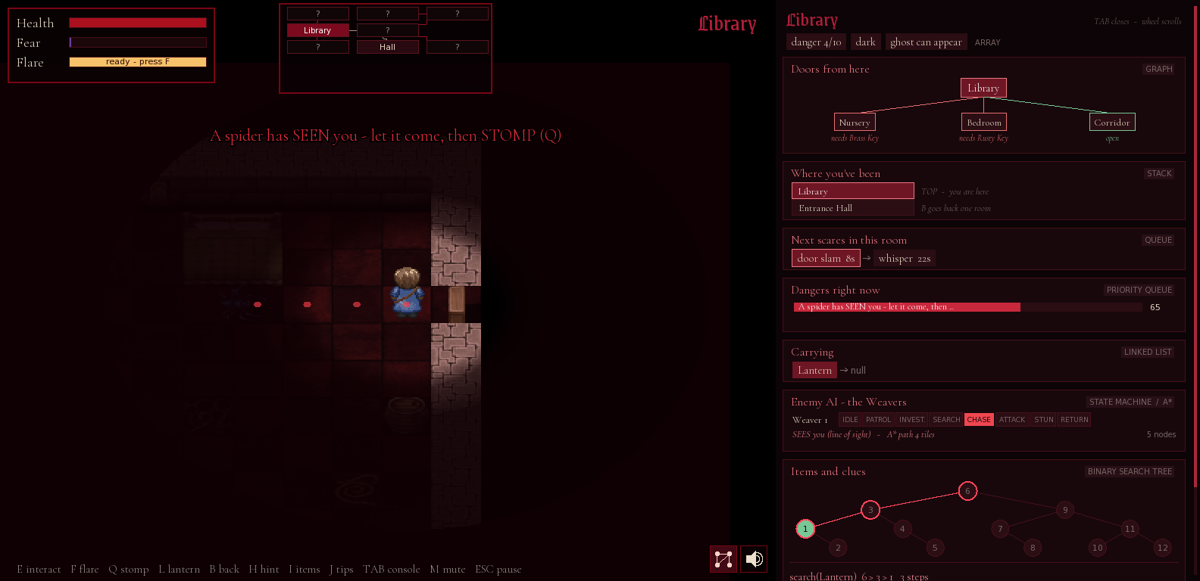
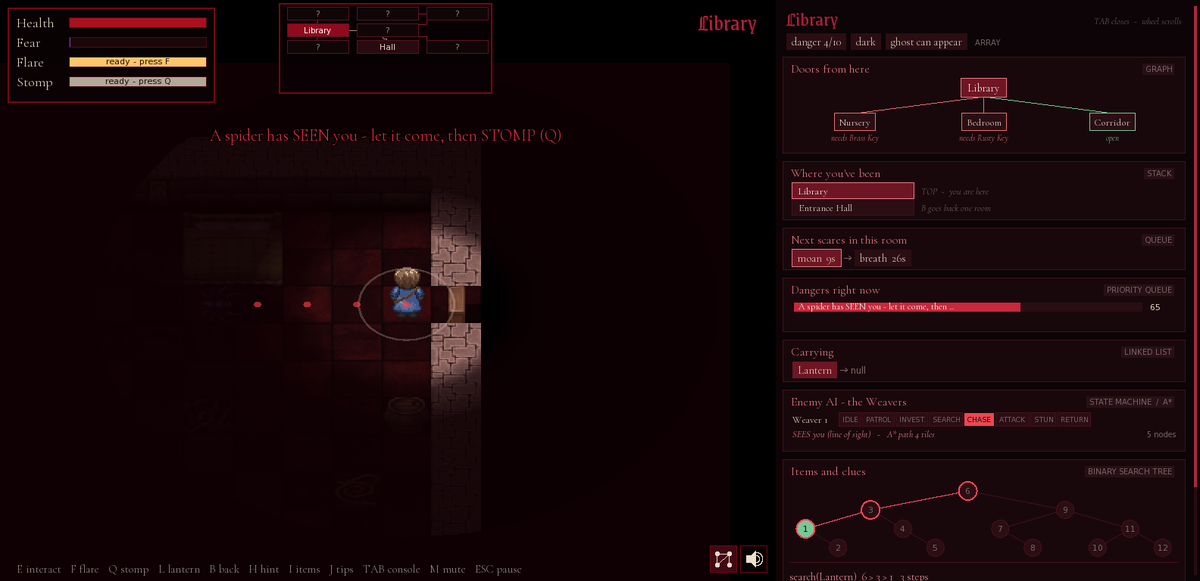
Retake README screenshots, add door/stomp/notes/hiding shots, stomp cooldown 12 s

Changed region(s): [[0.0, 0.1239, 0.185, 0.1859], [0.6783, 0.4337, 0.7708, 0.4647], [0.3083, 0.5577, 0.3392, 0.5886]]

diff --git a/src/hud.cpp b/src/hud.cpp
@@ -764,7 +764,7 @@ void Game::drawConsole(sf::RenderWindow* w) {
 			txt(b, fontSerif, 13, BONE, 22, y0 + 2);
 			float x = 84;
 			for (int k = 0; k < 8; ++k) {                       // the 8-state machine, current state lit
-				bool on = (int)s.state == k;
+				bool on = s.active && (int)s.state == k;   // a squashed spider has no state left
 				float cw = width(names[k], fontMono, 9) + 8;
 				rect(x, y0 + 2, cw, 17, on ? stateCol[k] : CHIP, on ? sf::Color::Transparent : EDGE);
 				txt(names[k], fontMono, 9, on ? sf::Color(20, 6, 8) : TAG, x + 4, y0 + 5);

diff --git a/src/game.h b/src/game.h
@@ -181,7 +181,7 @@ private:
 	bool placeWallWriting(const Str& word);
 	float shake = 0, jumpscare = 0, flare = 0, flareCooldown = 0, hurtFlash = 0;
 	static constexpr float FLARE_COOLDOWN = 10.f;   // seconds between lantern flares
-	static constexpr float STOMP_COOLDOWN = 15.f;   // seconds before you can stomp again
+	static constexpr float STOMP_COOLDOWN = 12.f;   // seconds before you can stomp again
 	static constexpr float STOMP_REACH = 30.f;      // px from your feet - about one tile
 	// digging (crypt)
 	int digCount = 0; float digT = 0;

diff --git a/README.md b/README.md
@@ -21,7 +21,7 @@ spirits, the Weavers and the Devil. Then choose how the nightmare ends.
 
 - **Ten rooms** joined in a **graph**, with locked doors, a hidden passage found by **DFS**, and a **BFS** hint route plus a trail of blood to your goal.
 - **Enemy AI** with an **eight-state machine**, **line of sight**, **sound detection**, and **A\*** and **BFS** pathfinding.
-- **Stealth**: turn your lantern off, stand still, or hide in a wardrobe. Or **stomp** a spider flat when it rears up at your feet (short reach, 15 s cooldown).
+- **Stealth**: turn your lantern off, stand still, or hide in a wardrobe. Or **stomp** a spider flat when it rears up at your feet (short reach, 12 s cooldown).
 - **Doors you walk through**: a door swings open on its hinge, the hero walks through, and it shuts behind you with a thud. Locked doors rattle.
 - **A boss fight**: the hero draws the Blessed Sword (animated swing in four directions) and needs six blows to end the Devil.
 - **Save & continue**, health kits hidden in drawers, and rolling **credits** over TV static.
@@ -58,7 +58,9 @@ spirits, the Weavers and the Devil. Then choose how the nightmare ends.
 | | |
 |---|---|
 | <img src="docs/images/bfs_hint.png" alt="BFS hint"><br><sub>Stuck for 30 s? The hint names the goal and the <b>BFS</b> route to it.</sub> | <img src="docs/images/samara.png" alt="Samara"><br><sub>Samara hunts by sound. Stand still and she loses your trail.</sub> |
-| <img src="docs/images/bedroom.png" alt="Collapsed Bedroom"><br><sub>The Collapsed Bedroom: pits, fire, spikes and a lever.</sub> | <img src="docs/images/crypt.png" alt="The Crimson Crypt"><br><sub>The Crimson Crypt. The EMF meter screams when the Devil is close.</sub> |
+| <img src="docs/images/bedroom.png" alt="Collapsed Bedroom"><br><sub>The Collapsed Bedroom: pits, fire, spikes and a lever.</sub> | <img src="docs/images/crypt.png" alt="The Crimson Crypt"><br><sub>The Crimson Crypt: the hero swings the Blessed Sword. The Devil's health bar sits at the bottom.</sub> |
+| <img src="docs/images/notecard.png" alt="Survival note"><br><sub>Meet a horror and a survival note slides in at the side. The game keeps running.</sub> | <img src="docs/images/door.png" alt="Door swinging open"><br><sub>Doors swing open on their hinge and the hero walks through.</sub> |
+| <img src="docs/images/hide.png" alt="Hiding in a wardrobe"><br><sub>Hiding in a wardrobe: nothing can see, hear or touch you.</sub> | <img src="docs/images/stomp.png" alt="Stomping a spider"><br><sub>A spider at your feet: the ring shows the stomp's reach.</sub> |
 
 ---
 
@@ -95,7 +97,7 @@ In fullscreen the game is letterboxed and the console takes the right-hand strip
 
 <p align="center">
   <img src="docs/images/card_bst.png" alt="BST card" width="460"><br>
-  <sub>The BST card: green = collected, gold = clue read. The red path is <code>search(Iron Key)</code> visiting <code>6</code>, which takes 1 step.</sub>
+  <sub>The BST card: green = collected, gold = clue read. The red path is <code>search(Lantern)</code> visiting <code>6 &gt; 3 &gt; 1</code>: 3 steps.</sub>
 </p>
 
 ### Complexity
@@ -167,7 +169,7 @@ stateDiagram-v2
 **Killing them.** When a spider rears up at your feet, **stomp (Q)**. The hero lifts a boot and stamps
 (a three-frame animation with a dust ring), and the spider is squashed flat. The boot only reaches about
 one tile (30 px): when a spider is close, a faint ring on the floor shows that reach. After a stomp you
-must wait **15 seconds** before the next one (the HUD bar counts down). Stomp too early and you miss and
+must wait **12 seconds** before the next one (the HUD bar counts down). Stomp too early and you miss and
 lose the stomp; too late and it bites. Its body stays on the floor for good, saves included, and a
 squashed spider never comes back. Once you carry the Blessed Sword, **SHIFT** cuts spiders down too. In
 the dark, two red eyes show you where a spider is before it reaches the light.
@@ -189,7 +191,7 @@ The sprites are generated from single drawings:
 ## Watch the dream (demo mode)
 
 Pick **Watch the dream** on the title screen and the game plays itself from the first room to the
-**true ending** in about four minutes, at normal walking speed. The live console is open the whole
+**true ending** in about ten minutes, at normal walking speed. The live console is open the whole
 time. **TAB** hides or shows it, **M** mutes, and **Esc** pauses it (you can leave to the title from the pause menu).
 
 <p align="center"><img src="docs/images/demo.png" alt="Demo mode" width="900"></p>
@@ -286,7 +288,7 @@ Each ending closes with your run stats (time, rooms, items, spirits banished, de
 | E / Enter | Interact: pick up, open, read, use doors, hide in / leave a wardrobe |
 | **F** | Flare the lantern (10 s cooldown, shown on the HUD) |
 | **Shift** | Swing the Blessed Sword (once you have it): the final fight, and it cuts spiders down too |
-| **Q** | Stomp: squash a spider at your feet (about one tile of reach, 15 s cooldown) |
+| **Q** | Stomp: squash a spider at your feet (about one tile of reach, 12 s cooldown) |
 | **L** | Lantern on / off (stealth) |
 | **B** | Go back one room (Stack) |
 | **H** | Hint now (BFS) |
